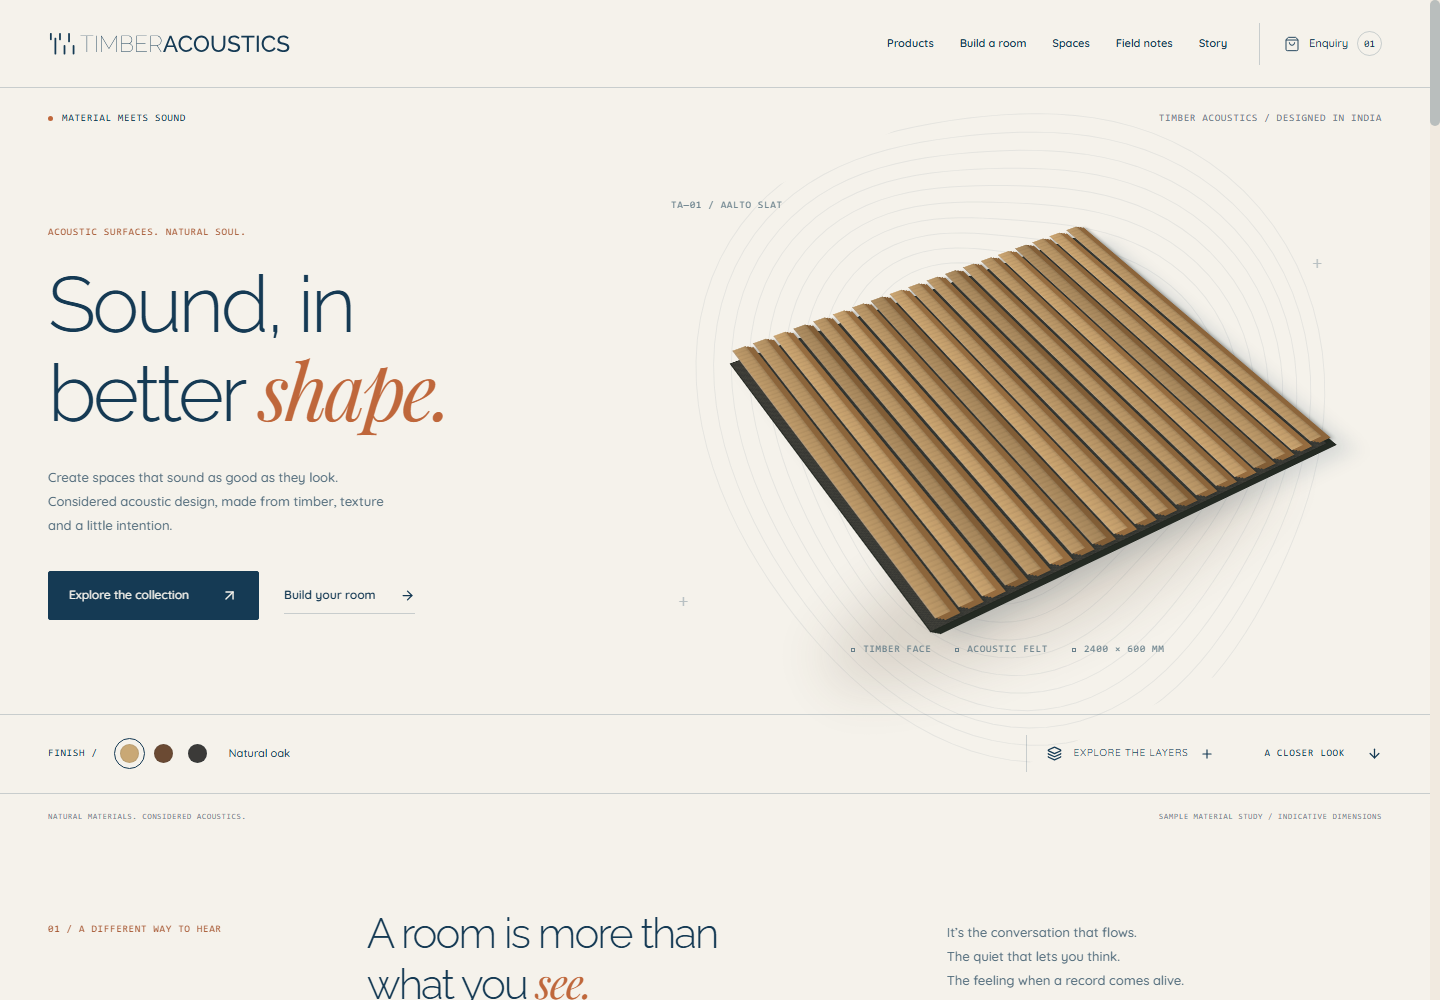
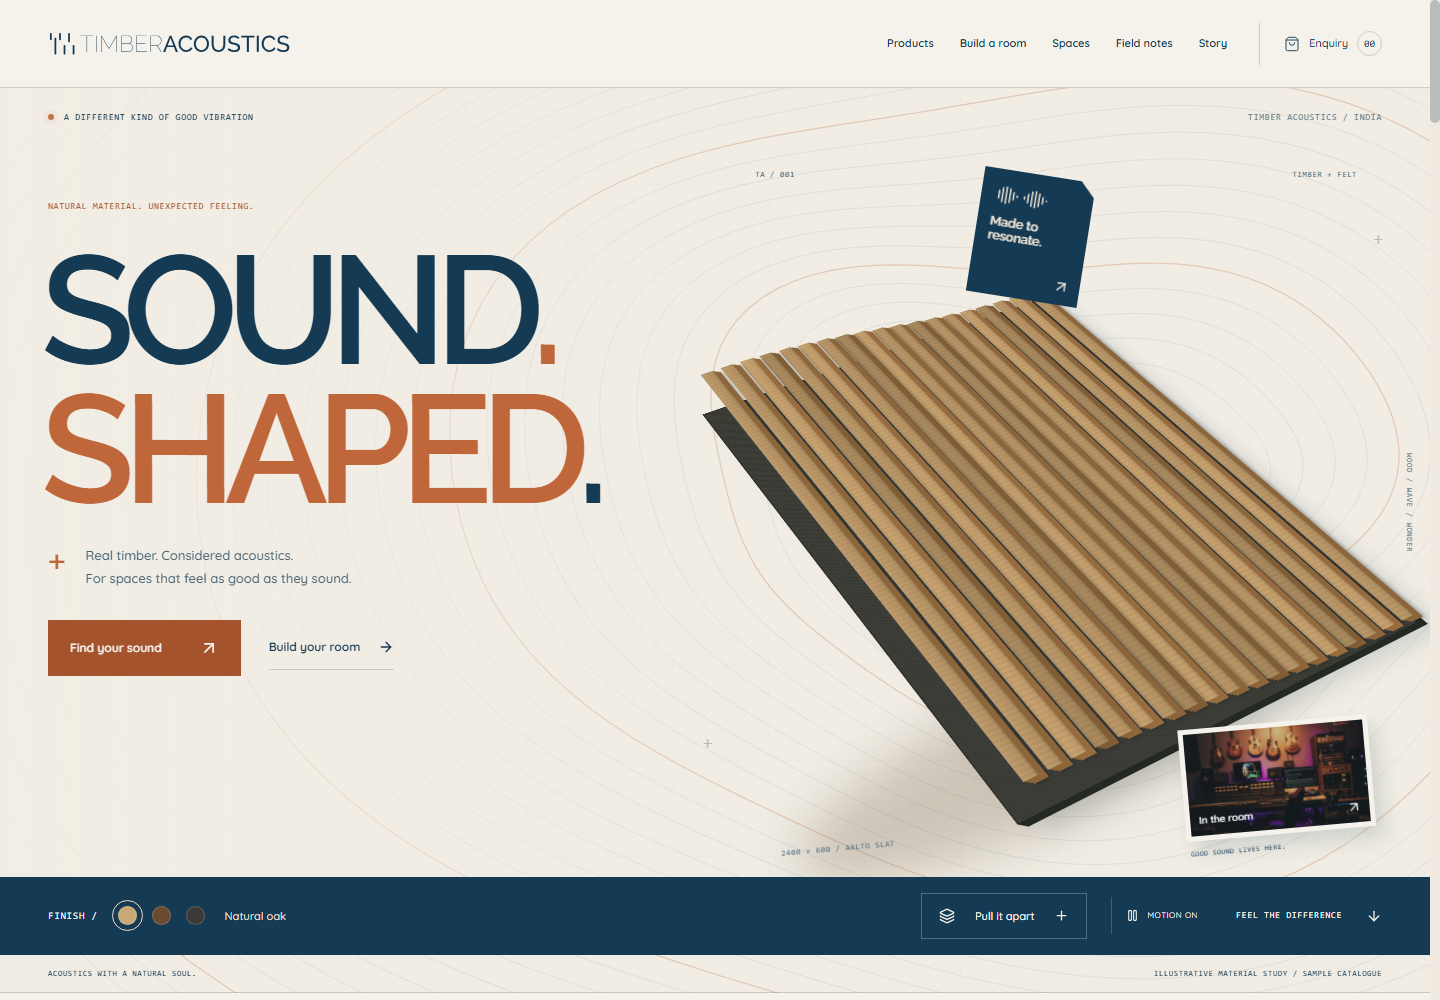
docs: capture kinetic hero review and verification

diff --git a/DESIGN_DIRECTION.md b/DESIGN_DIRECTION.md
@@ -1,4 +1,6 @@
-# Design direction - material, made precise
+# Design direction - material in motion
+
+The latest hero feedback asks for a bolder, more futuristic and expressive opening with live background patterns. This supersedes the earlier preference for a restrained homepage headline; the brand book still governs identity, palette and typography.
 
 ## Source hierarchy
 
@@ -11,7 +13,7 @@
 
 - Light, warm beige/off-white surfaces. Primary navy `#153A54`, burnt orange `#BF673B`, beige `#E9DCC9`. Supporting mustard `#F3A228`, teal `#248082`, grey-black `#282828`, white `#E2E2E2`.
 - The official mark is the vertical sound-wave/TA symbol. The logo SVGs are extracted from the supplied book, with their proportions preserved.
-- Raleway for headings, lighter and substantially smaller than the old bold demo. Playfair is an optional accent, not the dominant visual language.
+- Raleway for headings. The revised hero uses oversized uppercase type at weight 650; interior pages retain lighter headings. Playfair is an optional accent, not the dominant visual language.
 - Gotham is named for body copy; the book also names Quicksand as a fallback. Gotham font files were not supplied, so use the book's available fallback rather than extracting an incomplete embedded font.
 - Organic wood-grain contours are a supporting pattern, distinct from the logo.
 - Keep product exploration, catalogue search/filter/price controls and the room configurator. Room choices include home theatre, listening room, studio and office.
@@ -21,12 +23,14 @@
 
 - [Teenage Engineering](https://teenage.engineering/): product-led composition, precise functional labels, industrial geometry, generous empty space and restrained colour controls.
 - [OP-XY showcase](https://opxy.mengto.here.now/): dimensional product studies, motion tied to product structure, compact specification labels and large but light type. Translate this into acoustic material rather than copying the synthesizer UI.
-- [Alt Shift](https://altshift.agency/): strong editorial pacing, shifts of scale and art-directed transitions. Borrow its confidence and choreography while respecting the client's smaller headings and light palette.
+- [Alt Shift](https://altshift.agency/): strong editorial pacing, shifts of scale and art-directed transitions. Borrow its confidence and choreography while respecting the Timber palette and identity.
 
 ## Implementation
 
-Create a light material-led homepage with an interactive timber panel, an acoustic-principle study, a retained product collection, illustrative spaces and room presets. Introduce a shared brand-correct header/footer and carry the precise grid, smaller type, consistent controls and technical detail through existing routes. Use reduced-motion fallbacks and keep browser-only rendering outside SSR. Keep real sample content labelled.
+Create a light material-led homepage with a bold kinetic opening, an acoustic-principle study, a retained product collection, illustrative spaces and room presets. Carry the shared brand-correct header/footer, precise grid and consistent controls through existing routes. Use reduced-motion fallbacks and keep browser-only rendering outside SSR. Keep sample content labelled.
 
 ## Applied design and review
 
 The shipped pass uses the official brand-book wordmark, local Raleway and Quicksand, the specified navy/orange/beige palette, and a darker orange tint for small text and active states. Product geometry is built in CSS rather than borrowing the reference sites' product artwork. The acoustic sequence uses native sticky layout and Framer Motion with reduced-motion and smaller-screen fallbacks. Review images and the route/interaction audit are recorded in `docs/design-review/README.md`.
+
+The hero revision replaces the thin split composition with “SOUND. SHAPED.”, an oversized floating timber study, a navy control band and a tilted studio photograph. A canvas wood-grain field evolves continuously and bends around the pointer. The slats carry a travelling depth wave; the panel also responds to pointer pitch and yaw. Other brand contours breathe through slow SVG transforms. The visitor can pause the hero scene, and reduced-motion preferences produce a static composition, including when the preference changes while the page is open. Canvas drawing pauses offscreen or in a hidden tab, with resolution capped for smaller devices.

diff --git a/docs/design-review/README.md b/docs/design-review/README.md
@@ -5,17 +5,30 @@ The brand book and client brief in `public/images/` governed this pass. `DESIGN_
 ## Review images
 
 - [Desktop - 1440 x 1000](desktop.png)
+- [Wide desktop - 1920 x 1080](wide-desktop.png)
 - [Tablet - 768 x 1024](tablet.png)
 - [Mobile - 390 x 844](mobile.png)
+- [Small mobile - 320 x 700](small-mobile.png)
+- [Live hero motion preview](hero-motion.gif)
 - [Scroll-led acoustic study](acoustic-study.png)
 
 ## What changed
 
 - Original sound-wave wordmark from the brand book, warm off-white/beige surfaces, navy type and burnt-orange accents. Small text and active controls use a darker orange tint for contrast.
-- Raleway headings with lighter weight and smaller scale. Local Quicksand body fonts follow the brand book's fallback guidance; Gotham font files were not supplied.
+- Bold, oversized Raleway in the revised hero, with lighter headings on interior pages. Local Quicksand body fonts follow the brand book's fallback guidance; Gotham font files were not supplied.
 - Interactive timber finishes and separated material layers. The acoustic study advances through absorption, diffusion and low-frequency balance on larger screens; it remains a tabbed section on smaller screens and with reduced motion.
 - Product exploration, catalogue filters and room configuration remain. The room atelier adds a finish-study view and supports home theatre, listening room, studio and workplace presets.
 - Shared page introductions, header and footer, responsive controls, and redirects for older collection/configurator URLs.
+
+## Kinetic hero revision
+
+The latest feedback asked for more futuristic character and moving background patterns. Commit `b2cf41d` introduces “SOUND. SHAPED.”, travelling timber-slat motion, pointer tilt, a live wood-grain canvas, a studio-photo ticket and a navy finish/layer control band. Supporting SVG patterns also move subtly. No additional animation dependency was needed.
+
+The revised hero was reviewed at all five widths shown above. Browser checks verified canvas evolution, product tilt, finish selection, actual layer separation, pause/resume, offscreen canvas suspension, reduced motion on first load and live preference changes, both CTA destinations, mobile navigation and Escape. Canvas snapshots remain identical when paused or reduced; CSS animations also pause. No runtime exceptions, broken images or horizontal page overflow were found.
+
+Follow-up `76cc28e` adds SSR-consistent motion preferences and a hydration regression test. Clean normal and reduced-motion loads of the homepage, catalogue and room builder were checked for hydration errors, console errors and runtime exceptions; none remained.
+
+The images show the current hero. The broader route audit below records the preceding brand redesign; this revision rechecked the homepage and the catalogue/room-builder destinations affected by its links.
 
 ## Browser review
 
@@ -36,9 +49,9 @@ No browser runtime errors, broken images or horizontal page overflow were found 
 ## Validation
 
 - `npx tsc --noEmit`: passed.
-- `npm test`: 3 tests passed across 2 files.
+- `npm test`: 4 tests passed across 3 files.
 - `npm run build`: passed.
-- Targeted ESLint for changed source: passed; the basket context retains a Fast Refresh warning about mixed exports.
+- Targeted ESLint for the hero revision: passed.
 - Repository-wide lint has legacy formatting errors outside this pass. Existing user edits in `src/styles.css` and `src/components/site/StoryPanel.tsx` were preserved.
 
 The sample catalogue, indicative pricing and illustrative project labels remain visible. Enquiry delivery and team authentication retain the existing preview behavior; this pass does not connect a production backend.

diff --git a/PROGRESS.md b/PROGRESS.md
@@ -24,3 +24,4 @@
 - Reviewed desktop (1440 and 1920), tablet (768), mobile (390) and small mobile (320) layouts. Verified pointer tilt, actual layer separation, both CTA destinations, finishes, pause/resume, offscreen suspension, reduced motion on first load and live preference changes, mobile navigation and Escape. No runtime exceptions, broken images or horizontal overflow were found. Typecheck, all three tests, targeted ESLint and production build passed. Next: preserve the updated screenshots and motion preview, update the design notes and remove temporary review tools.
 - Implementation committed locally as `b2cf41d` (`feat: add a bold kinetic acoustic hero`). Saved five viewport screenshots and a 30-frame motion preview in `docs/design-review/`. Updated `DESIGN_DIRECTION.md`, `REFERENCE_ANALYSIS.md` and the review README to reflect the latest hero feedback and verification. Review assets and documentation were checked; temporary browser/review tools are being removed. Existing user edits and source documents remain untouched; no push or deployment was performed.
 - A final console audit exposed a reduced-motion hydration mismatch. Replaced the preference reads in the experience components with an SSR-compatible external store, ensured reduced-motion hero text is visible at first paint, and added a hydration/live-preference regression test. Clean normal and reduced-motion loads of the homepage, catalogue and room builder now show no hydration errors or runtime exceptions. Hero interactions were rechecked; typecheck, targeted ESLint, production build and all four tests across three files passed. Next: commit the final review documentation and complete cleanup.
+- Hydration fix committed locally as `76cc28e`. Validated all five saved screenshot dimensions and the 30 distinct frames in the motion preview, checked documentation formatting and reviewed the diff. Temporary review files, browser profile and owned preview processes have been removed. The hero revision and review documentation are complete; existing user edits and source documents are preserved.

diff --git a/REFERENCE_ANALYSIS.md b/REFERENCE_ANALYSIS.md
@@ -23,3 +23,7 @@ The supplied URL is accessible outside the network sandbox; the browsing service
 ## Comparison refinements
 
 Desktop, tablet and mobile homepage hero screenshots were compared with the reference. A desktop catalogue comparison identified a display-font conflict and encoding artifacts; both were corrected. The reference fonts and catalogue/project photographs are now served locally. The original catalogue slider uses two independently adjustable handles.
+
+## Current hero direction
+
+The subsequent brand-book redesign and latest user feedback supersede exact replication for the hero. The supplied screenshot shows the preceding thin “Sound, in better shape.” composition; the user requested a bolder futuristic treatment and live patterns. The revision keeps the book's Raleway, navy, burnt orange and wood-grain language while introducing uppercase poster-scale type, animated material geometry and a pointer-responsive contour canvas. It reuses the local studio photograph and existing finish/layer controls. Current screenshots, motion preview and browser findings are in `docs/design-review/README.md`; `DESIGN_DIRECTION.md` records the source hierarchy and decisions.
